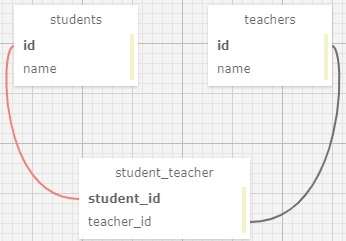
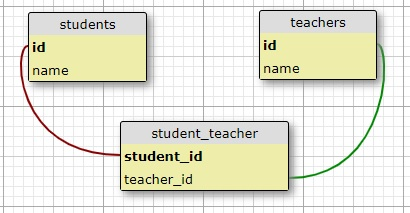
made table diagrams more colourful

diff --git a/write-up.html b/write-up.html
@@ -1270,6 +1270,24 @@
                     <p>Both tables have a primary key, like the one-to-many relationship. The foreign key goes on the 'many' side of the relationship. 
                         The foreign key points to a primary key in a table on the 'one' side of the relationship.
                     </p>
+
+                    <h3><u>One-To-One</u></h3>
+                    <p>This is actually a special case of a one-to-many relationship. The representation is similar, but a constraint is 
+                        added to the database to prevent the 'many' side to have more than one link. It's not a very common type of relationship, 
+                        but it may come up some day for you. 
+                    </p>
+                    
+                    <h3><u>Representing Followers</u></h3>
+                    <p>Alright, now that we've established and hopefully understood the basic data relationships there are, let's get back to 
+                        our application. For microblog, we're going to need a "many-to-many" relationship to track followers, because a user 
+                        follows 'many' users, and a user has 'many' followers. However, since users are just following each other, and not another 
+                        table like in the student_teacher example, we need to do it slightly differently. 
+                    </p>
+                    <p>The second entity of the relationship(instead of teachers being the second entity for students) is also the users. A relationship 
+                        in which instances of a class are linked to other instances of the same class is called a self-referential relationship. 
+                    </p>
+                    <p>Here's a diagram of the self-referential "many-to-many" relationship that keeps track of followers:
+                        <br><br><img src="./img/followers table users.jpg"
                         
 
             </div>
